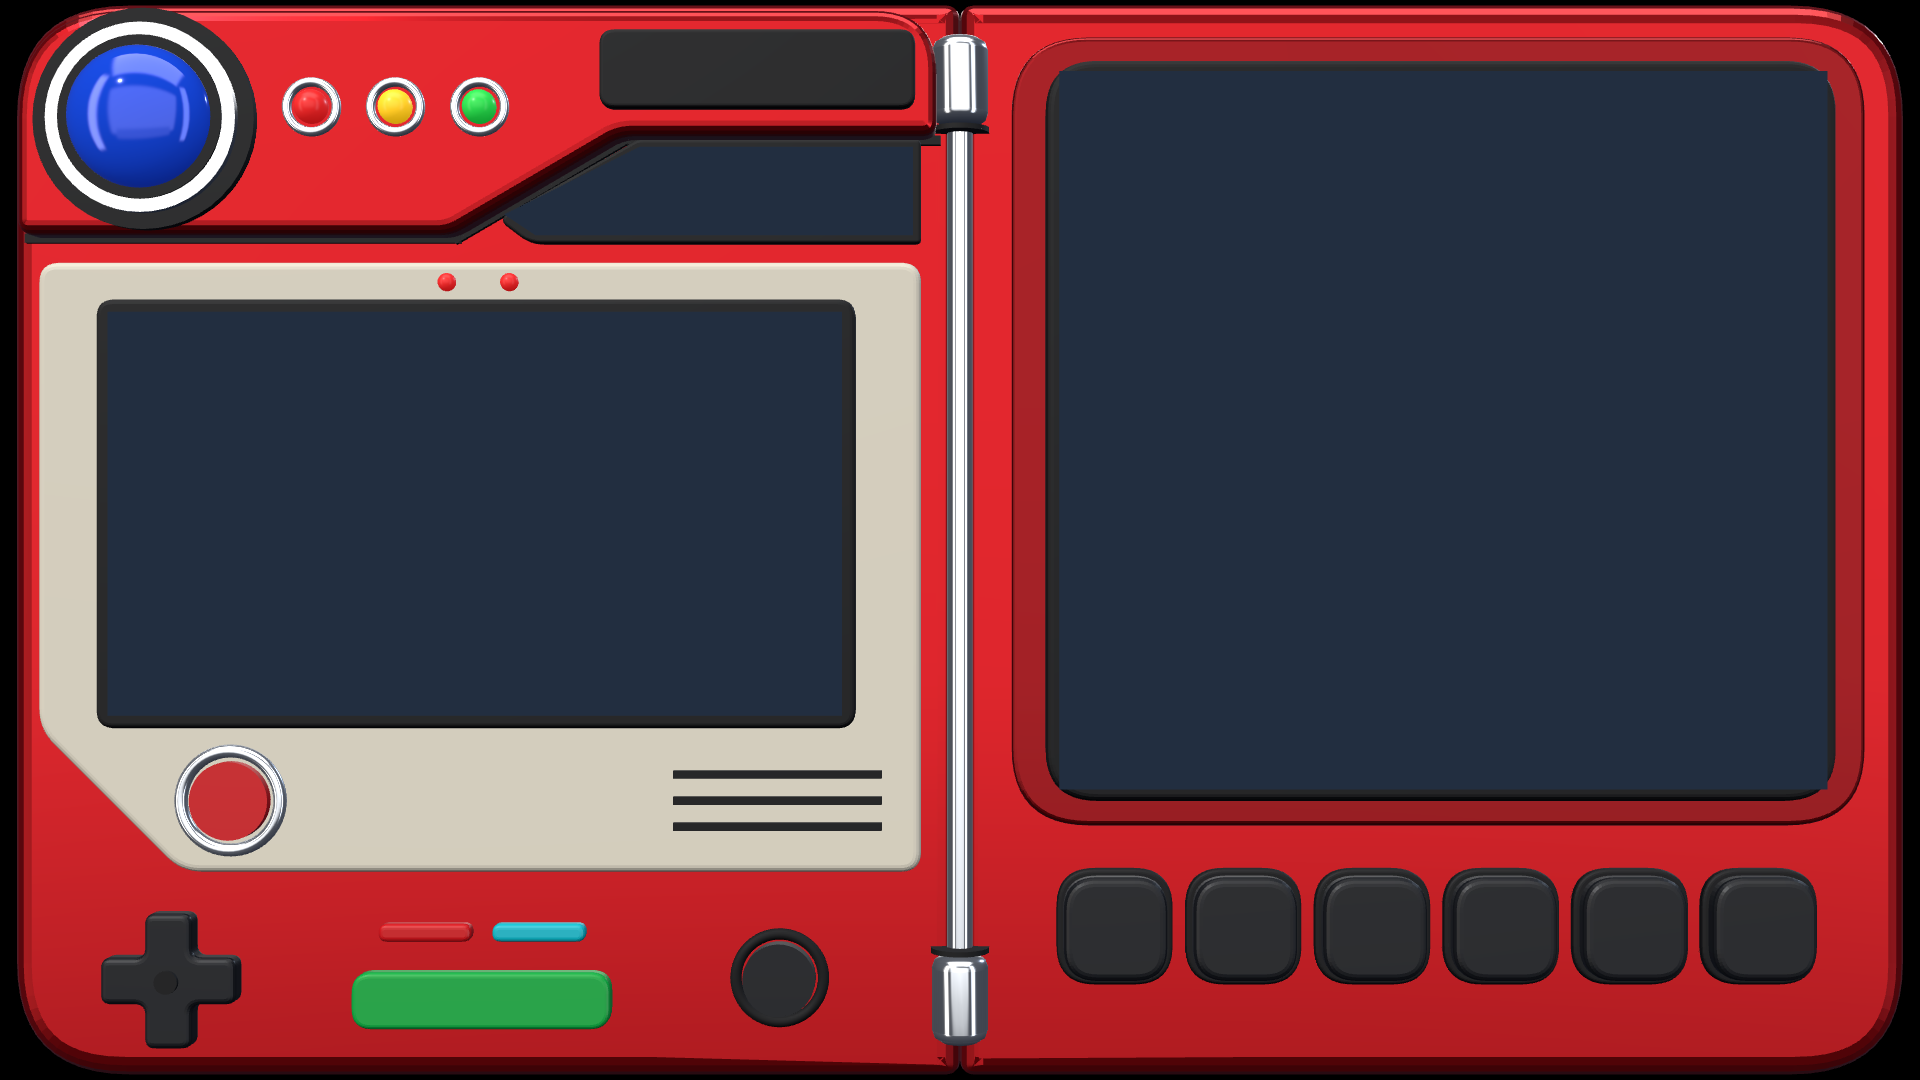
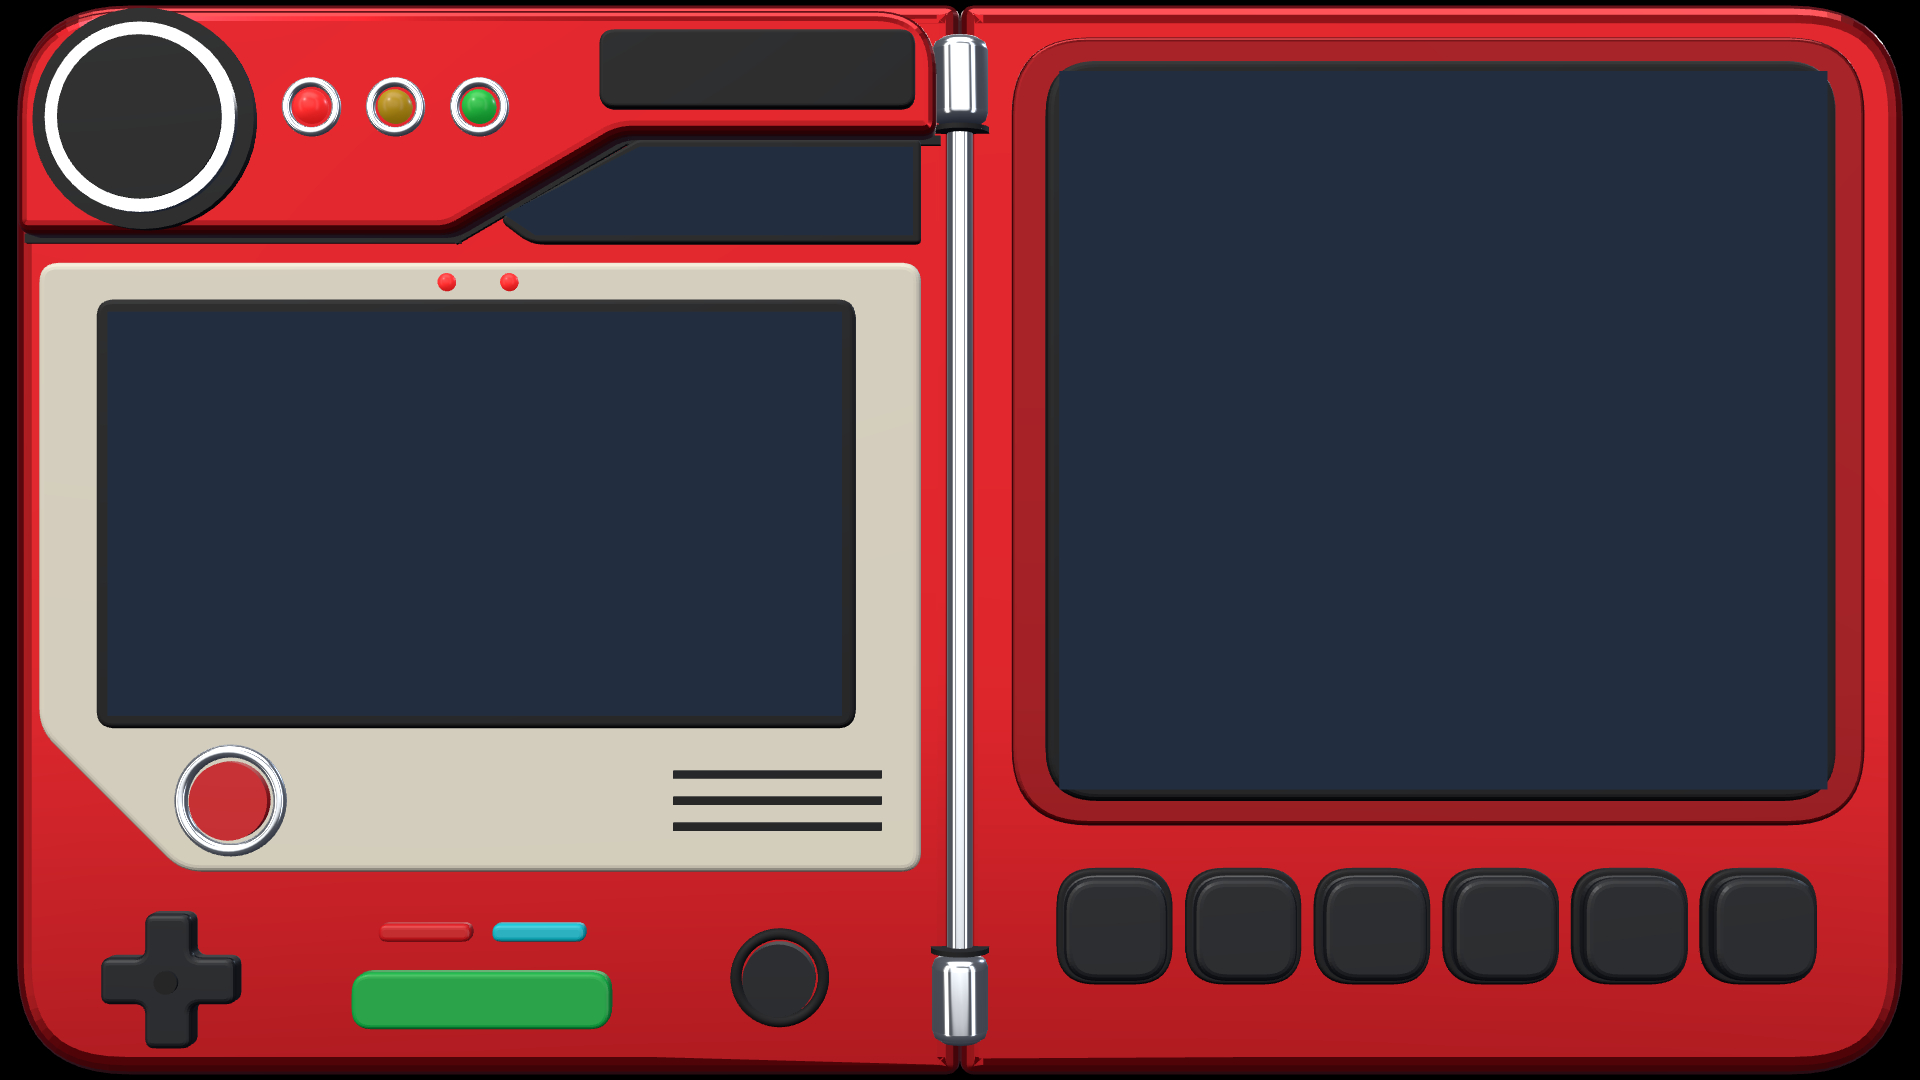
Profile picture in the lens socket, no A-Z rail
Renders the body without the blue lens, shows a picture in the socket
(tools/set-avatar.sh), keeps the breathing halo and power-on flash, and
removes the letter rail from the list.

Claude-Session: https://claude.ai/code/session_01U9C24E7d1zj8JvSuK3R342

Changed region(s): [[0.0312, 0.0306, 0.125, 0.1833], [0.1562, 0.0611, 0.2812, 0.1222]]

diff --git a/tools/render-shell.js b/tools/render-shell.js
@@ -13,7 +13,7 @@ const { chromium } = require(process.env.PLAYWRIGHT_MODULE || 'playwright');
   const page = await browser.newPage({ viewport: { width: W, height: H } });
   const errors = [];
   page.on('pageerror', e => errors.push(String(e)));
-  const url = 'file://' + path.resolve(__dirname, 'shell-scene/index.html') + '?tier=1&debug=1&fps=0&pr=1&aa=1&nodegrade=1&lowmem=0&keys=' + (process.env.KEYS || '2') + (process.env.CAP ? '&cap=' + process.env.CAP : '');
+  const url = 'file://' + path.resolve(__dirname, 'shell-scene/index.html') + '?tier=1&debug=1&fps=0&pr=1&aa=1&nodegrade=1&lowmem=0&keys=' + (process.env.KEYS || '2') + (process.env.CAP ? '&cap=' + process.env.CAP : '') + (process.env.NOLENS ? '&nolens=1' : '');
   await page.goto(url);
   await page.waitForFunction(() => window.__dex, null, { timeout: 60000 });
   await page.evaluate(() => window.__dex.setTarget(1));

diff --git a/tools/shell-scene/dex.js b/tools/shell-scene/dex.js
@@ -589,6 +589,7 @@
     g.add(disc(rRing + 0.06, 0.04, mGasket, x, y, z + 0.02));
     g.add(disc(rRing, 0.07, mMetal, x, y, z + 0.035));
     g.add(disc(rRing - 0.05, 0.075, mGasket, x, y, z + 0.04));
+    if (O.nolens === '1') return;   /* render-only: leave the socket empty so the native app can show a picture in it */
     var dome = new THREE.Mesh(new THREE.SphereGeometry(rDome, 48, 24, 0, Math.PI * 2, 0, Math.PI / 2), mLens);
     dome.rotation.x = Math.PI / 2; dome.scale.y = 0.6; dome.position.set(x, y, z + 0.07);
     dome.castShadow = true; g.add(dome);

diff --git a/app/src/main/java/com/copper/dex/LensView.java b/app/src/main/java/com/copper/dex/LensView.java
@@ -1,0 +1,94 @@
+package com.copper.dex;
+
+import android.content.Context;
+import android.graphics.Bitmap;
+import android.graphics.BitmapFactory;
+import android.graphics.BitmapShader;
+import android.graphics.Canvas;
+import android.graphics.LinearGradient;
+import android.graphics.Matrix;
+import android.graphics.Paint;
+import android.graphics.RadialGradient;
+import android.graphics.Rect;
+import android.graphics.RectF;
+import android.graphics.Shader;
+
+import java.io.File;
+
+/** The big round socket at the top left: a profile picture behind glass. Put your own with tools/set-avatar.sh. */
+final class LensView extends DView {
+ static final float CX = 140, CY = 118, R = 79;
+ private final File file;
+ private Bitmap avatar;
+ private final Paint pic = new Paint(Paint.ANTI_ALIAS_FLAG | Paint.FILTER_BITMAP_FLAG);
+ private final Paint fill = new Paint(Paint.ANTI_ALIAS_FLAG);
+ private final Paint arc = Gfx.stroke(0x80FFFFFF, 3f);
+ private final Matrix m = new Matrix();
+ private final RectF box = new RectF();
+
+ LensView(Context c) {
+  super(c, new Rect((int) (CX - R - 6), (int) (CY - R - 6), (int) (CX + R + 6), (int) (CY + R + 6)));
+  file = new File(c.getFilesDir(), "avatar.img");
+  reload();
+ }
+
+ void reload() {
+  Bitmap b = null;
+  if (file.exists()) {
+   try {
+    BitmapFactory.Options o = new BitmapFactory.Options();
+    o.inJustDecodeBounds = true;
+    BitmapFactory.decodeFile(file.getPath(), o);
+    int sample = 1;
+    while (o.outWidth / (sample * 2) >= 2 * R * 2 && o.outHeight / (sample * 2) >= 2 * R * 2) sample *= 2;
+    o = new BitmapFactory.Options();
+    o.inSampleSize = sample;
+    b = BitmapFactory.decodeFile(file.getPath(), o);
+   } catch (Throwable ignored) {
+   }
+  }
+  avatar = b;
+  invalidate();
+ }
+
+ @Override void paintDesign(Canvas c) {
+  if (avatar != null) {
+   BitmapShader sh = new BitmapShader(avatar, Shader.TileMode.CLAMP, Shader.TileMode.CLAMP);
+   float s = Math.max(2 * R / avatar.getWidth(), 2 * R / avatar.getHeight());
+   m.reset();
+   m.setScale(s, s);
+   m.postTranslate(CX - avatar.getWidth() * s / 2f, CY - avatar.getHeight() * s / 2f);
+   sh.setLocalMatrix(m);
+   pic.setShader(sh);
+   c.drawCircle(CX, CY, R, pic);
+   pic.setShader(null);
+  } else {
+   drawDefault(c);
+  }
+  // the glass: darker at the edge, a soft highlight and a thin rim reflection
+  fill.setShader(new RadialGradient(CX, CY, R, new int[]{0x00000000, 0x00000000, 0x73000000}, new float[]{0f, 0.68f, 1f}, Shader.TileMode.CLAMP));
+  c.drawCircle(CX, CY, R, fill);
+  fill.setShader(new RadialGradient(CX - R * 0.34f, CY - R * 0.46f, R * 0.95f, 0x59FFFFFF, 0x00FFFFFF, Shader.TileMode.CLAMP));
+  c.drawCircle(CX, CY, R, fill);
+  fill.setShader(null);
+  box.set(CX - R + 5, CY - R + 5, CX + R - 5, CY + R - 5);
+  c.drawArc(box, 200, 70, false, arc);
+ }
+
+ /** Stand-in until a picture is set: a head and shoulders on a blue disc, like the TV's default profile. */
+ private void drawDefault(Canvas c) {
+  fill.setShader(new LinearGradient(CX, CY - R, CX, CY + R, 0xFF5B9BFF, 0xFF1B3A8C, Shader.TileMode.CLAMP));
+  c.drawCircle(CX, CY, R, fill);
+  fill.setShader(null);
+  c.save();
+  box.set(CX - R, CY - R, CX + R, CY + R);
+  android.graphics.Path clip = new android.graphics.Path();
+  clip.addCircle(CX, CY, R, android.graphics.Path.Direction.CW);
+  c.clipPath(clip);
+  fill.setColor(0xE6FFFFFF);
+  c.drawCircle(CX, CY - 14, 25, fill);
+  box.set(CX - 50, CY + 18, CX + 50, CY + 108);
+  c.drawOval(box, fill);
+  c.restore();
+ }
+}

diff --git a/app/src/main/java/com/copper/dex/ListPanelView.java b/app/src/main/java/com/copper/dex/ListPanelView.java
@@ -131,11 +131,8 @@ final class ListPanelView extends DView {
   for (float y = 0; y < ph; y += 34) c.drawLine(0, y, pw, y, p);
   Paint br = Gfx.stroke(Design.alpha(Design.CYAN, 0.85f), 2f);
   Gfx.brackets(c, all, 12, 26, br);
-  for (int i = 0; i < 26; i++) c.drawText(String.valueOf((char) ('A' + i)), pw - 20, railY(i) + 5, letter);
   return b;
  }
-
- private float railY(int i) { return 104 + i * ((ph - 60 - 104) / 25f); }
 
  private void drawTabs(Canvas c) {
   float x = 26;
@@ -169,14 +166,6 @@ final class ListPanelView extends DView {
   idxSmall.setTextAlign(Paint.Align.RIGHT);
   c.drawText(small, sx, 50, idxSmall);
   c.drawText(big, sx - idxSmall.measureText(small) - 8, 52, idxBig);
-  char ch = items.get(sel).initial();
-  if (ch >= 'A' && ch <= 'Z') {
-   float y = railY(ch - 'A');
-   r.set(pw - 31, y - 10, pw - 9, y + 10);
-   fill.setColor(Design.CYAN);
-   c.drawRoundRect(r, 6, 6, fill);
-   c.drawText(String.valueOf(ch), pw - 20, y + 5, letterOn);
-  }
  }
 
  private void drawRows(Canvas c) {
@@ -211,7 +200,7 @@ final class ListPanelView extends DView {
   float top = v[0], h = v[1], a = v[2], ind = v[3];
   if (a < 0.02f) return;
   float k = Math.max(0f, 1f - Math.abs(d)) * (active ? 1f : 0.55f);   // how focused this row is
-  float left = 24 + ind, right = pw - 46;
+  float left = 24 + ind, right = pw - 28;
   r.set(left, top, right, top + h);
   // row background
   fill.setShader(new LinearGradient(left, 0, right, 0, Design.alpha(Design.lerp(0x0DFFFFFF, 0x4D288CFF, k), a),

diff --git a/app/src/main/java/com/copper/dex/LedView.java b/app/src/main/java/com/copper/dex/LedView.java
@@ -42,11 +42,18 @@ final class LedView extends DView {
 
  @Override void paintDesign(Canvas c) {
   long t = SystemClock.uptimeMillis() - t0;
-  float breath = 0.10f + 0.07f * (float) Math.sin(t / 1100.0);
-  float flash = t < 1400 ? (float) Math.pow(Math.max(0f, 1f - t / 800f), 2) * 0.65f : 0f;
-  float la = Math.min(0.85f, breath + flash);
-  p.setShader(new RadialGradient(140, 118, 150, Design.alpha(0xFF4C93FF, la), 0x004C93FF, Shader.TileMode.CLAMP));
-  c.drawCircle(140, 118, 150, p);
+  float breath = 0.5f + 0.5f * (float) Math.sin(t / 1100.0);
+  float flash = t < 1400 ? (float) Math.pow(Math.max(0f, 1f - t / 800f), 2) * 0.7f : 0f;
+  // soft halo just outside the lens ring
+  float ha = Math.min(0.9f, 0.14f + 0.14f * breath + flash * 0.5f);
+  p.setShader(new RadialGradient(140, 118, 138, new int[]{0x005CE1FF, 0x005CE1FF, Design.alpha(Design.CYAN, ha), 0x005CE1FF},
+    new float[]{0f, 0.77f, 0.84f, 1f}, Shader.TileMode.CLAMP));
+  c.drawCircle(140, 118, 138, p);
+  // power-on flash over the picture
+  if (flash > 0.01f) {
+   p.setShader(new RadialGradient(140, 118, 80, Design.alpha(0xFFFFFFFF, flash), 0x00FFFFFF, Shader.TileMode.CLAMP));
+   c.drawCircle(140, 118, 80, p);
+  }
   for (int i = 0; i < 3; i++) {
    float level = Math.max(0f, Math.min(1f, (t - ONSET[i]) / 220f));
    if (t >= next[i] + 180) next[i] = t + 1800 + rnd.nextInt(5200);

diff --git a/app/src/main/java/com/copper/dex/MainActivity.java b/app/src/main/java/com/copper/dex/MainActivity.java
@@ -20,6 +20,7 @@ public class MainActivity extends Activity {
  private AppRepo repo;
  private ArtLoader loader;
  private ShellView shell;
+ private LensView lens;
  private HeroView hero;
  private ListPanelView list;
  private KeysView keys;
@@ -57,6 +58,8 @@ public class MainActivity extends Activity {
   keys = new KeysView(this);
   standby = new StandbyView(this);
   stage.addView(shell);
+  lens = new LensView(this);
+  stage.addView(lens);
   stage.addView(new LedView(this));
   stage.addView(hero);
   stage.addView(new ClockView(this));
@@ -85,6 +88,7 @@ public class MainActivity extends Activity {
   super.onResume();
   immersive();
   if (resumedOnce && repo.load()) showTab(tab);
+  lens.reload();
   resumedOnce = true;
   fade.animate().alpha(0f).setDuration(220).start();
  }
